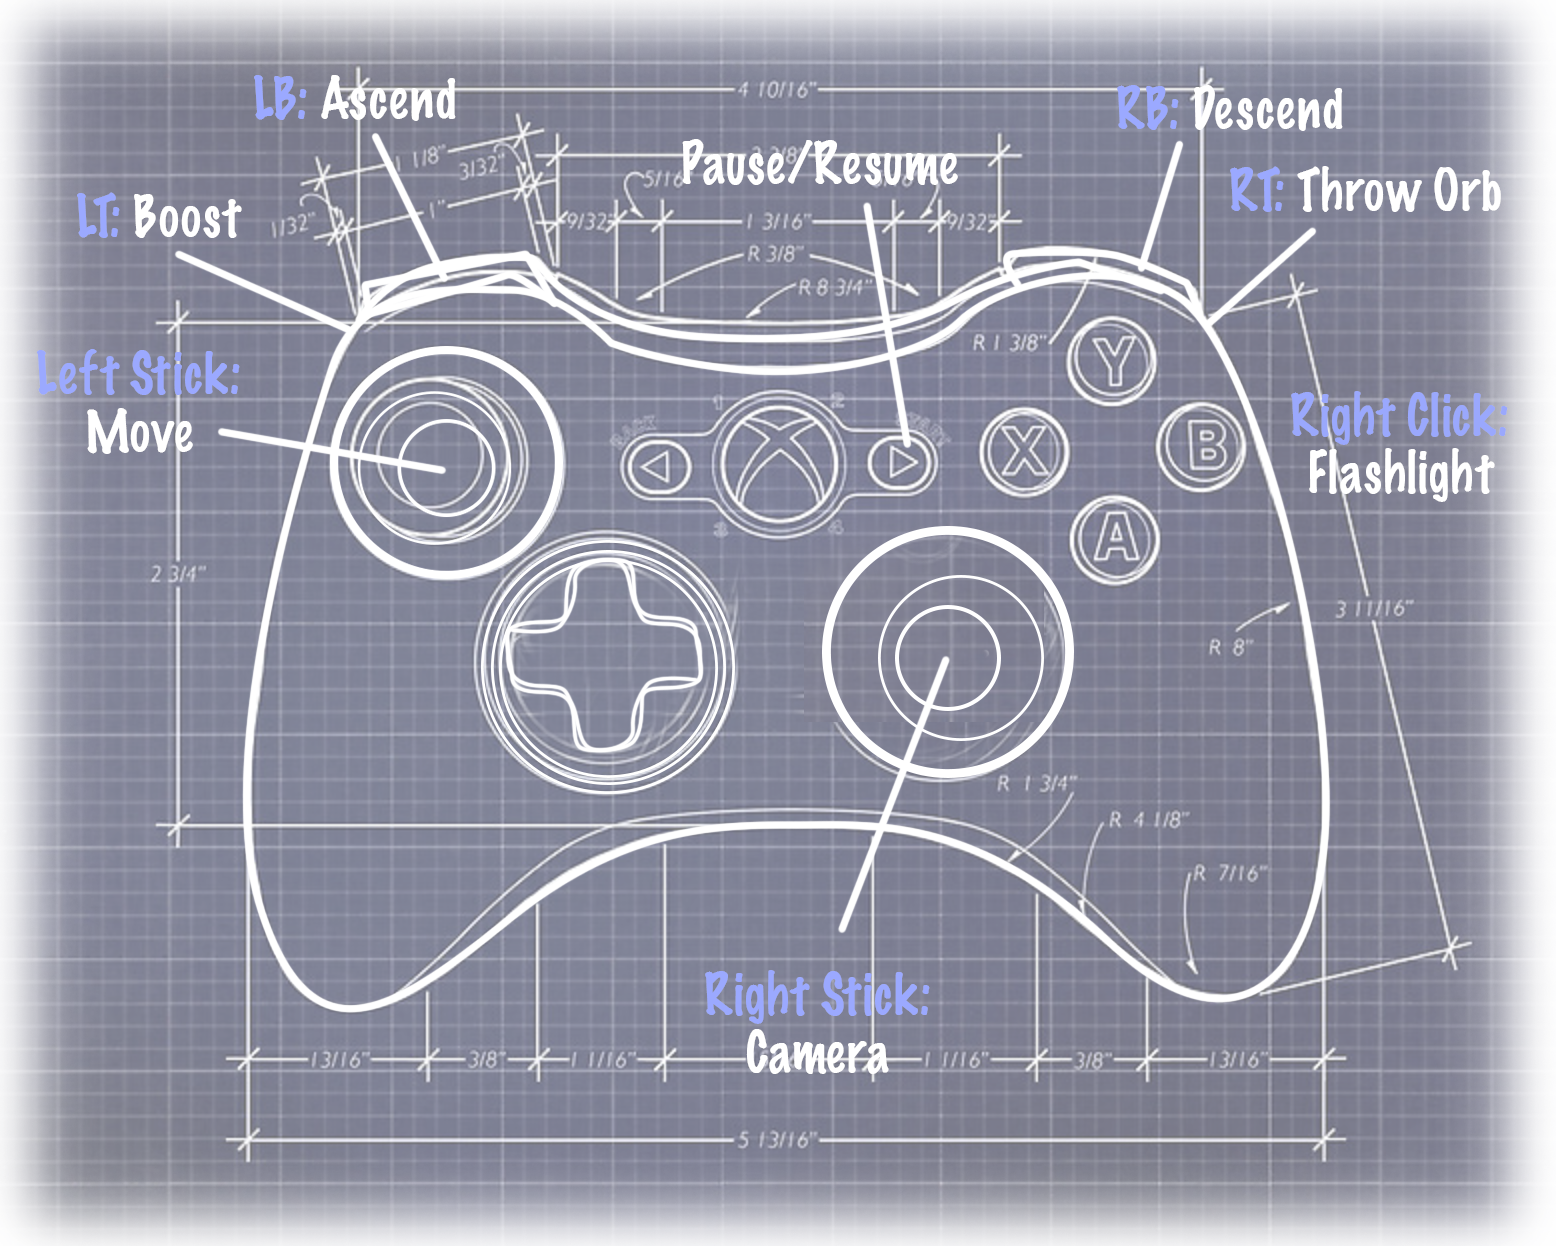
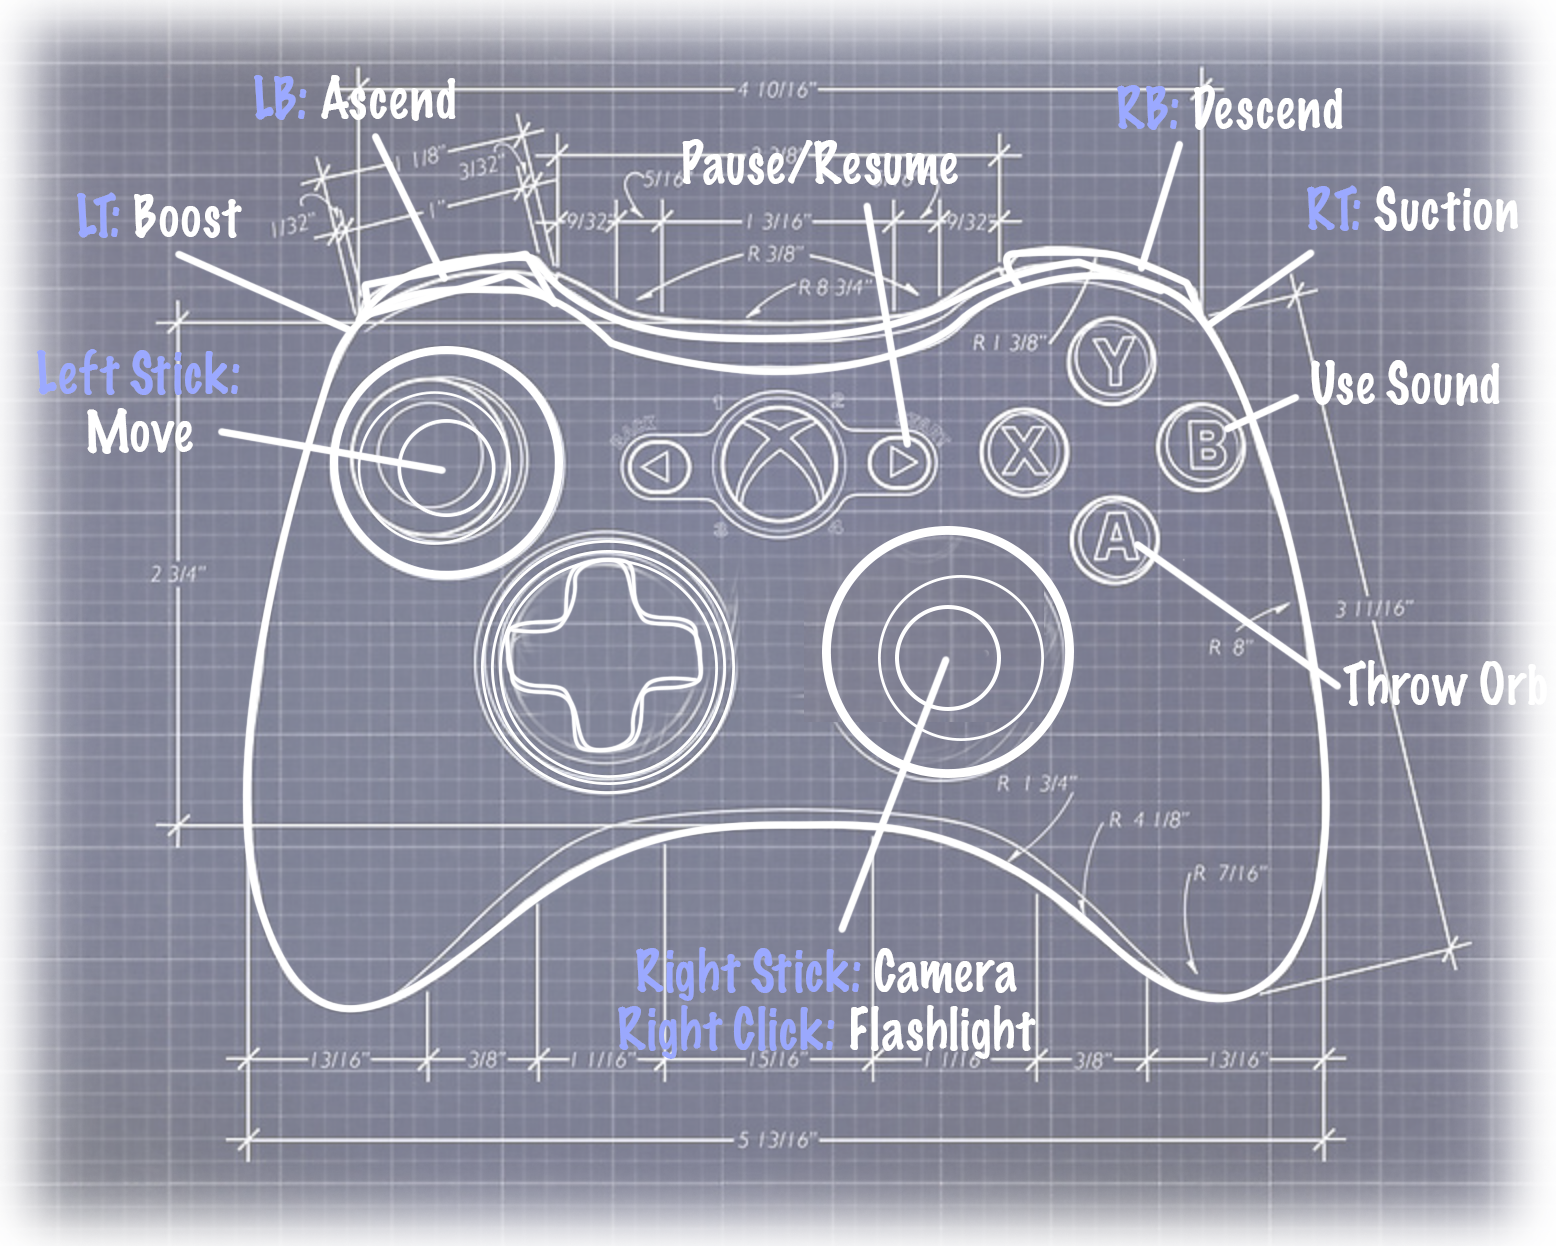
Fixed orb shoot on start. Small fish prefab.

diff --git a/Deep Under/Assets/Scripts/Player.cs b/Deep Under/Assets/Scripts/Player.cs
@@ -153,8 +153,8 @@ public class Player : SmallBoidsFish {
 	protected override void Update() {
 		if (Input.GetKeyUp(KeyCode.JoystickButton9) || Input.GetKeyUp(KeyCode.F)
 			|| Input.GetKeyUp(KeyCode.JoystickButton11)) lightToggle();
-		if (Input.GetKeyUp(KeyCode.JoystickButton0)|| Input.GetKeyUp(KeyCode.Mouse0)
-			|| Input.GetKeyUp(KeyCode.JoystickButton16)) callCreateLightOrb();
+		if ((Input.GetKeyDown(KeyCode.JoystickButton0)|| Input.GetKeyDown(KeyCode.Mouse0)
+			|| Input.GetKeyDown(KeyCode.JoystickButton16)) && !GUIManager.Instance.GamePaused) callCreateLightOrb();
 		if (Input.GetKeyUp(KeyCode.JoystickButton1) || Input.GetKeyUp(KeyCode.G)
 		|| Input.GetKeyUp(KeyCode.JoystickButton17)) makeSound();
 		if (Input.GetKey(KeyCode.JoystickButton8) || Input.GetKey(KeyCode.JoystickButton12)) camera.swingToPosition(defaultCameraPosition.transform);
